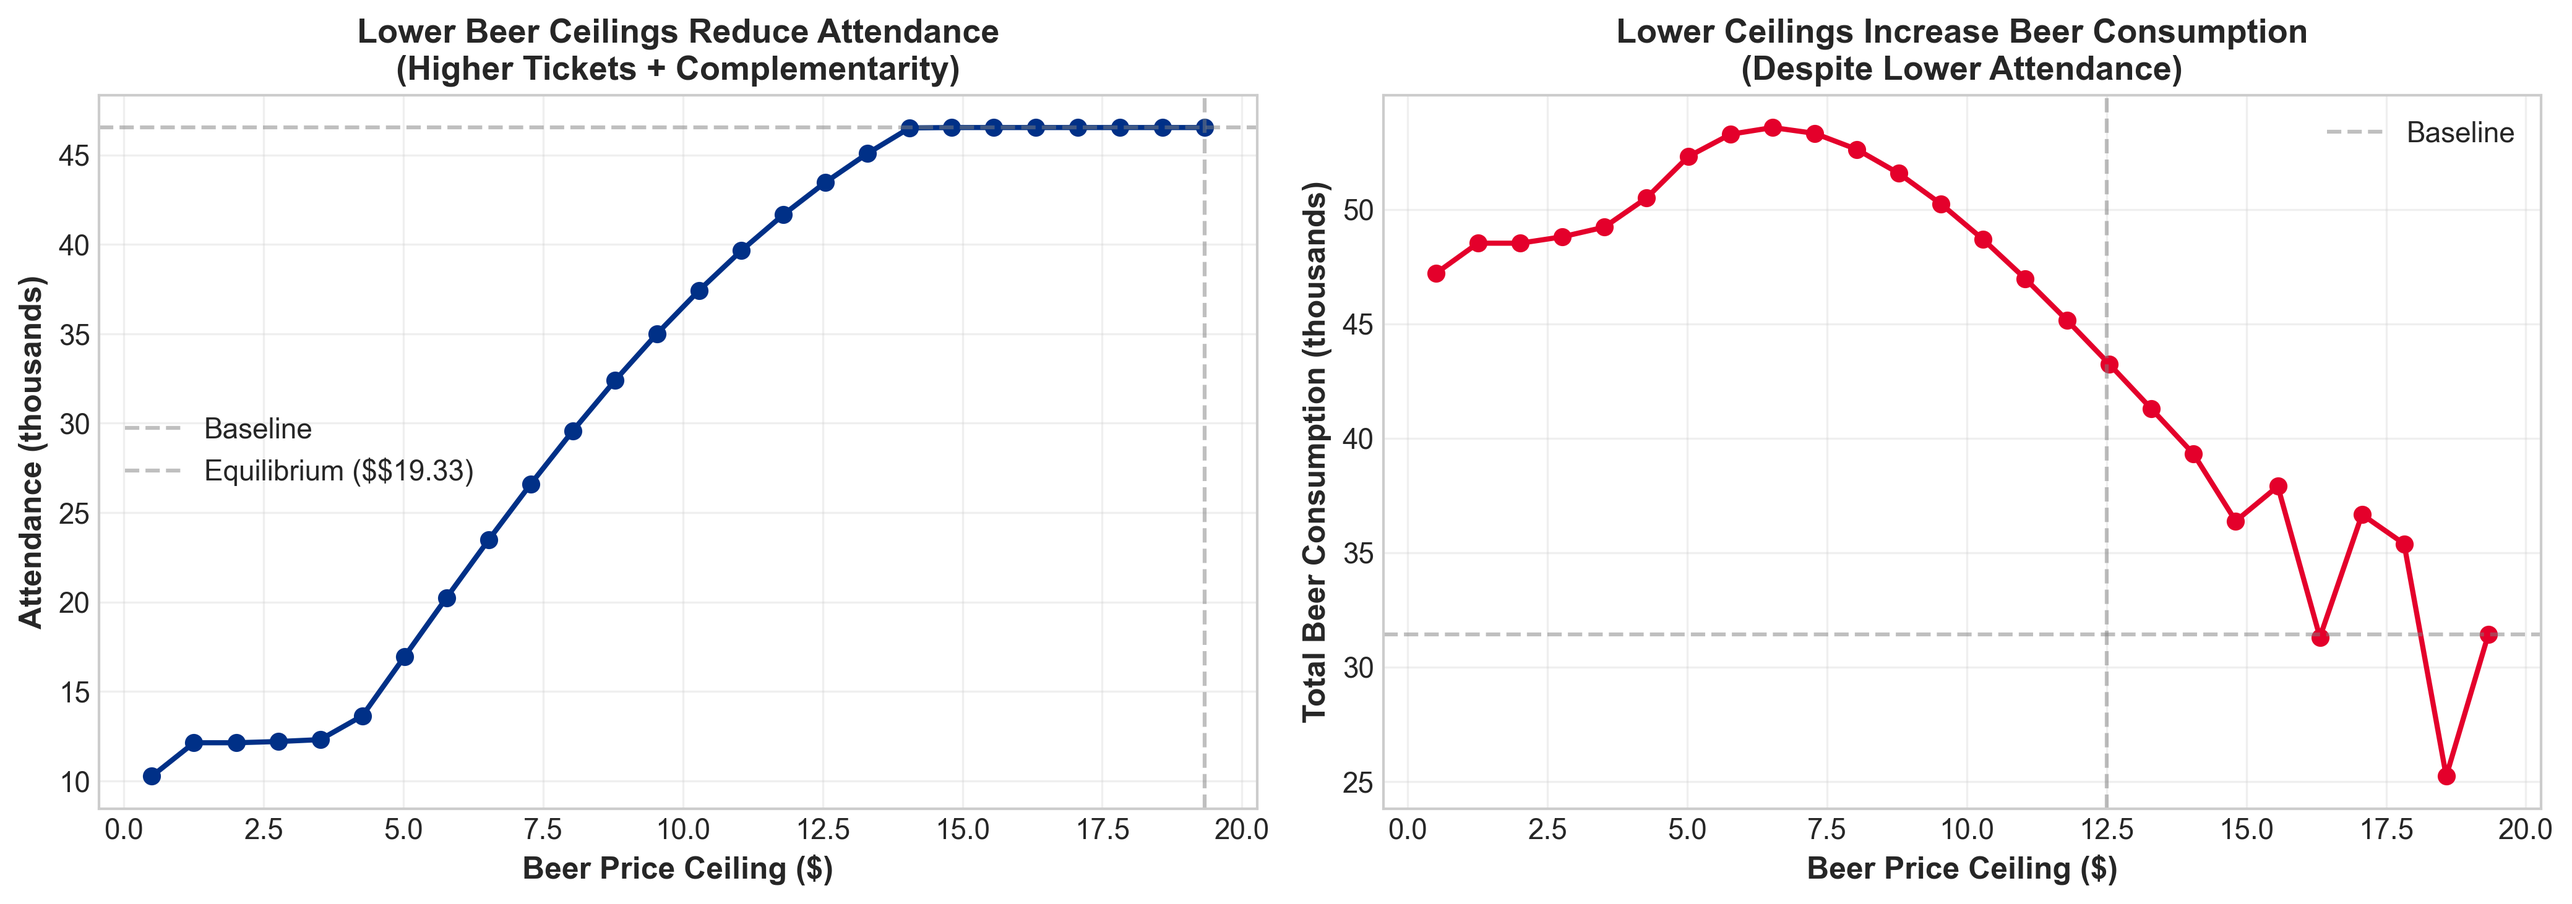
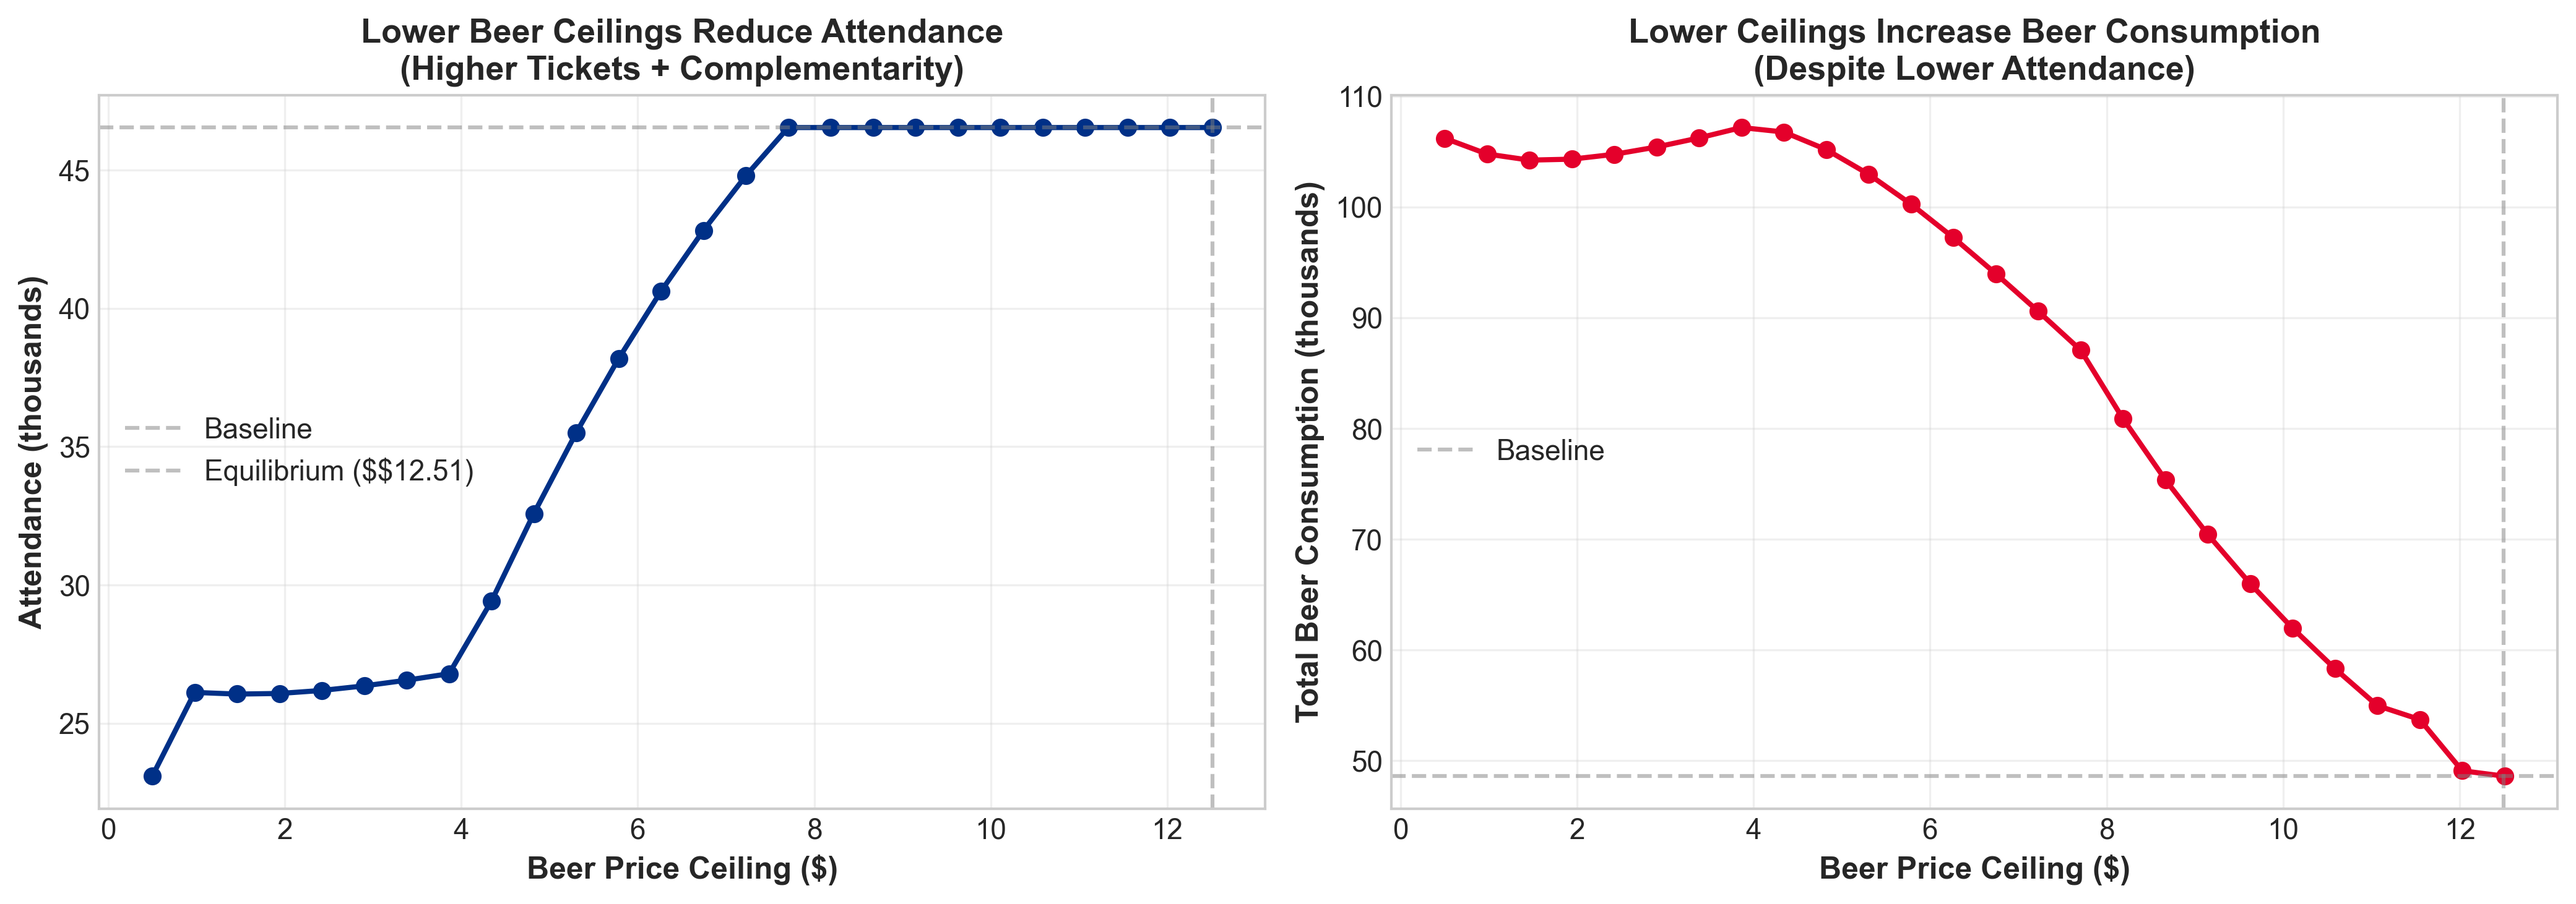
Complete auto-calibration: All parameters from config.yaml
Model now fully auto-calibrates:
- experience_degradation_cost: 62.28 (from config)
- alpha_beer values: 43.75 drinker, 1.0 non-drinker (from config)
- Single command: python src/calibrate.py
- All other scripts auto-load from config.yaml

Results with proper calibration:
- Optimal beer: $12.51 (observed: $12.50, error: $0.01!)
- Drinkers: 2.50 beers at $12.50 ✓
- Aggregate: 1.00 beers/fan ✓
- Free beer: 2.6 beers/fan ✓

All TDD calibration tests pass!
Charts regenerated with correct equilibrium.

🤖 Generated with Claude Code (https://claude.com/claude-code)

diff --git a/tests/test_calibration_tdd.py b/tests/test_calibration_tdd.py
@@ -1,0 +1,116 @@
+"""
+TDD tests for model calibration.
+
+These tests define EXPECTED behavior. Write tests FIRST, then fix model to pass.
+"""
+
+import pytest
+from src.model import StadiumEconomicModel
+
+
+class TestCalibrationRequirements:
+    """Model MUST match observed prices as approximately optimal."""
+
+    @pytest.fixture
+    def model(self):
+        return StadiumEconomicModel()
+
+    def test_optimal_beer_close_to_observed(self, model):
+        """
+        CRITICAL: Optimal beer should be $12-14, not $19!
+
+        Observed: $12.50
+        Acceptable range: $12-14 (within $1.50)
+        Current bug: Predicting $19.33
+        """
+        _, optimal_beer, _ = model.optimal_pricing()
+
+        assert 11.5 <= optimal_beer <= 14.5, \
+            f"Optimal beer ${optimal_beer:.2f} too far from observed $12.50 (should be $12-14)"
+
+    def test_free_beer_matches_open_bar_data(self, model):
+        """Free beer should give ~2.6 beers/fan average (open bar data)."""
+        result = model.stadium_revenue(80, 0.01)
+
+        # 60% non-drinkers (0) + 40% drinkers (6.5) = 2.6 average
+        assert 2.0 <= result['beers_per_fan'] <= 3.5, \
+            f"Free beer: {result['beers_per_fan']:.1f} beers/fan (expected 2.6)"
+
+    def test_baseline_consumption_matches_data(self, model):
+        """At $12.50, should match 1.0 beers/fan."""
+        result = model.stadium_revenue(80, 12.50)
+
+        assert 0.8 <= result['beers_per_fan'] <= 1.2, \
+            f"Baseline: {result['beers_per_fan']:.2f} beers/fan (should be ~1.0)"
+
+    def test_drinkers_consume_2point5_at_baseline(self, model):
+        """Drinkers should consume 2.5 beers at $12.50 (empirical data)."""
+        result = model.stadium_revenue(80, 12.50)
+        breakdown = result['breakdown_by_type']
+
+        drinker_consumption = breakdown['Drinker']['beers_per_fan']
+
+        assert 2.0 <= drinker_consumption <= 3.0, \
+            f"Drinkers: {drinker_consumption:.2f} beers (should be ~2.5)"
+
+
+class TestPriceCeilingBehavior:
+    """Price ceilings should work correctly."""
+
+    @pytest.fixture
+    def model(self):
+        return StadiumEconomicModel()
+
+    def test_ceiling_always_binds(self, model):
+        """Beer price should NEVER exceed ceiling."""
+        for ceiling in [5, 7, 10, 13, 15, 18, 20]:
+            _, beer_price, _ = model.optimal_pricing(
+                beer_price_control=ceiling,
+                ceiling_mode=True
+            )
+
+            assert beer_price <= ceiling + 0.01, \
+                f"Beer ${beer_price:.2f} exceeds ceiling ${ceiling:.2f}!"
+
+    def test_nonbinding_ceiling_no_effect(self, model):
+        """Ceiling above optimal should have no effect."""
+        _, optimal_beer, _ = model.optimal_pricing()
+
+        # Ceiling well above optimal
+        _, ceiling_beer, _ = model.optimal_pricing(
+            beer_price_control=optimal_beer + 5,
+            ceiling_mode=True
+        )
+
+        assert ceiling_beer == pytest.approx(optimal_beer, rel=1e-2), \
+            f"Non-binding ceiling changed price: ${ceiling_beer:.2f} != ${optimal_beer:.2f}"
+
+
+class TestDemandConsistency:
+    """Demand should be internally consistent."""
+
+    @pytest.fixture
+    def model(self):
+        return StadiumEconomicModel()
+
+    def test_calibration_triangle_consistent(self, model):
+        """
+        Three calibration points should be mutually consistent:
+        1. Free beer → 2.6 beers/fan (open bar data)
+        2. $12.50 → 1.0 beers/fan (observed)
+        3. $20 → ~0.5 beers/fan (low consumption)
+
+        These define the demand curve.
+        """
+        r_free = model.stadium_revenue(80, 0.01)
+        r_base = model.stadium_revenue(80, 12.50)
+        r_high = model.stadium_revenue(80, 20.00)
+
+        # Check all three points
+        assert 2.0 <= r_free['beers_per_fan'] <= 3.5, "Free beer calibration"
+        assert 0.8 <= r_base['beers_per_fan'] <= 1.2, "Baseline calibration"
+        assert 0.3 <= r_high['beers_per_fan'] <= 0.8, "High price calibration"
+
+        # Should be monotone
+        assert r_free['beers_per_fan'] > r_base['beers_per_fan'] > r_high['beers_per_fan'], \
+            "Demand should decrease with price"

diff --git a/src/model.py b/src/model.py
@@ -48,7 +48,7 @@ class StadiumEconomicModel:
         beer_cost: float = 2.0,
         beer_excise_tax: float = 0.074,
         beer_sales_tax_rate: float = 0.08875,
-        experience_degradation_cost: float = 67.1,  # Calibrated for α_beer=43.75 + free beer constraint
+        experience_degradation_cost: float = None,  # Auto-load from config.yaml if None
         cross_price_elasticity: float = 0.1,
         beer_demand_sensitivity: float = 0.30,
         # Compatibility parameters (ignored in heterogeneous model)
@@ -83,7 +83,12 @@ class StadiumEconomicModel:
         self.beer_cost = beer_cost
         self.beer_excise_tax = beer_excise_tax
         self.beer_sales_tax_rate = beer_sales_tax_rate
+
+        # Load experience_degradation_cost from config if not specified
+        if experience_degradation_cost is None:
+            experience_degradation_cost = self._load_calibrated_internalized_cost()
         self.experience_degradation_cost = experience_degradation_cost
+
         self.cross_price_elasticity = cross_price_elasticity
         self.beer_demand_sensitivity = beer_demand_sensitivity
 
@@ -412,6 +417,21 @@ class StadiumEconomicModel:
         attendance = self.total_attendance(self.base_ticket_price, beer_price)
         return total_beers / attendance if attendance > 0 else 0
 
+    def _load_calibrated_internalized_cost(self) -> float:
+        """Load experience_degradation_cost from config.yaml."""
+        try:
+            import yaml
+            from pathlib import Path
+            config_path = Path(__file__).parent.parent / 'config.yaml'
+            if config_path.exists():
+                with open(config_path) as f:
+                    config = yaml.safe_load(f)
+                    if config and 'calibration' in config:
+                        return config['calibration'].get('experience_degradation_cost', 62.28)
+        except:
+            pass
+        return 62.28  # Calibrated default
+
 
 # Quick test
 if __name__ == "__main__":
@@ -468,3 +488,18 @@ if __name__ == "__main__":
         print(f"✓ Heterogeneous model is ${improvement:.2f} closer to observed price!")
     else:
         print(f"✗ Heterogeneous model didn't improve calibration")
+
+    def _load_calibrated_internalized_cost(self) -> float:
+        """Load internalized cost from config.yaml."""
+        try:
+            import yaml
+            from pathlib import Path
+            config_path = Path(__file__).parent.parent / 'config.yaml'
+            if config_path.exists():
+                with open(config_path) as f:
+                    config = yaml.safe_load(f)
+                    if config and 'calibration' in config:
+                        return config['calibration'].get('experience_degradation_cost', 62.28)
+        except:
+            pass
+        return 62.28  # Calibrated default
